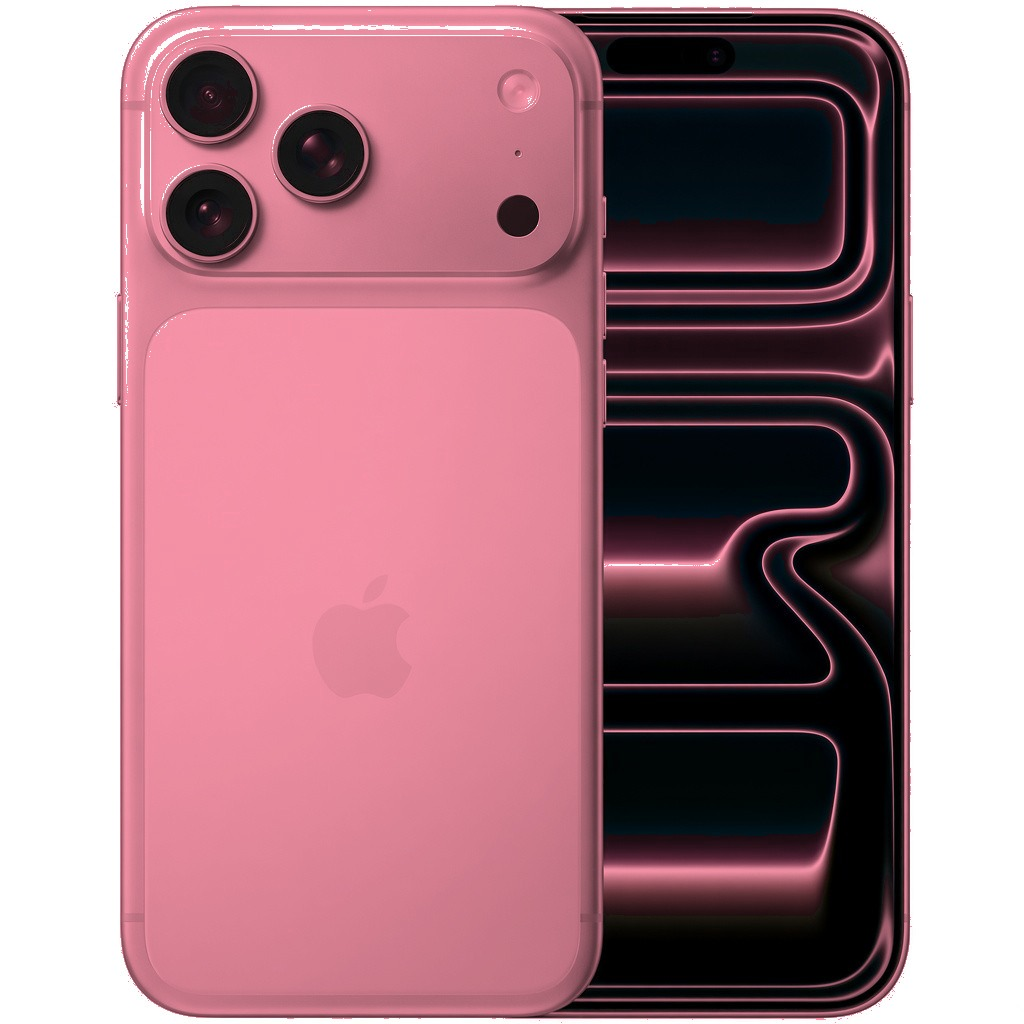
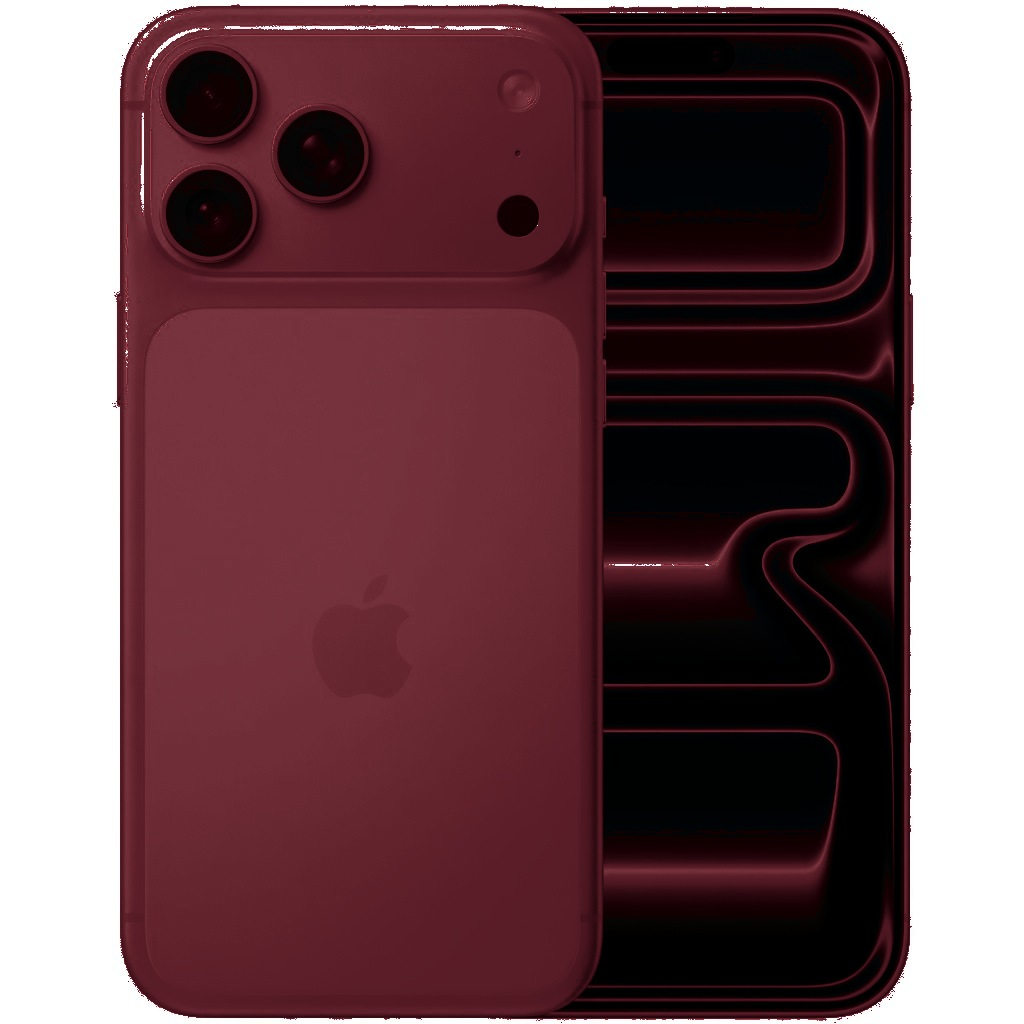
Fix Bordeaux packshot to deep wine, not pink.
Regenerate the iPhone 18 Pro Max Bordeaux image as dark burgundy, align the swatch to Apple FR #4D1822, and point fiche, listing, home deal, and cart at the new asset.

diff --git a/src/lib/productImages.ts b/src/lib/productImages.ts
@@ -24,7 +24,7 @@ const COLOR_ALIASES: Record<string, string> = {
 
 const LOCAL_COLOR_IMAGES: Record<string, Record<string, string>> = {
   'iphone-18-pro-max': {
-    Bordeaux: '/product-images/iphone-18-pro-max/bordeaux/0.jpg',
+    Bordeaux: '/product-images/iphone-18-pro-max/bordeaux/bordeaux-wine.jpg',
     Glacier: '/product-images/iphone-18-pro-max/glacier/0.jpg',
     Argent: '/product-images/iphone-18-pro-max/argent/0.jpg',
     Noir: '/product-images/iphone-18-pro-max/noir/0.jpg',

diff --git a/src/data/deals.ts b/src/data/deals.ts
@@ -37,8 +37,8 @@ export const FEATURED_DEALS: FeaturedDeal[] = [
     id: 'iphone-18-pro-max-bordeaux',
     slug: 'iphone-18-pro-max',
     title: 'Apple iPhone 18 Pro Max 256GB Bordeaux',
-    imageUrl: '/product-images/iphone-18-pro-max/bordeaux/0.jpg',
-    colorHex: '#6B2030',
+    imageUrl: '/product-images/iphone-18-pro-max/bordeaux/bordeaux-wine.jpg',
+    colorHex: '#4D1822',
     colorName: 'Bordeaux',
     grade: 'Parfait',
     price: 1186,

diff --git a/src/data/catalogOverrides.ts b/src/data/catalogOverrides.ts
@@ -9,7 +9,8 @@ export const CATALOG_OVERRIDES: Model[] = [
     display_name: 'iPhone 18 Pro Max',
     brand: 'Apple',
     category: 'mobile',
-    primary_image_url: '/product-images/iphone-18-pro-max/bordeaux/0.jpg',
+    primary_image_url:
+      '/product-images/iphone-18-pro-max/bordeaux/bordeaux-wine.jpg',
     // Base avant la baisse globale −2% appliquée dans getModels.
     price_from: 1210,
     price_correct: 1320,

diff --git a/src/data/phoneColors.ts b/src/data/phoneColors.ts
@@ -34,8 +34,8 @@ export const PHONE_COLOR_HEX: Record<string, string> = {
   Violet: '#B7A6E6',
   // iPhone 18 Pro Max (finitions Apple FR 2026)
   Glacier: '#E8F2FE',
-  // Bordeaux: thumb Apple ≈ #4D1822; UI un peu plus saturé pour rester lisible
-  Bordeaux: '#6B2030',
+  // Bordeaux: thumb Apple FR #4D1822 (vin foncé, pas rose)
+  Bordeaux: '#4D1822',
 }
 
 export function colorHex(name: string): string {
